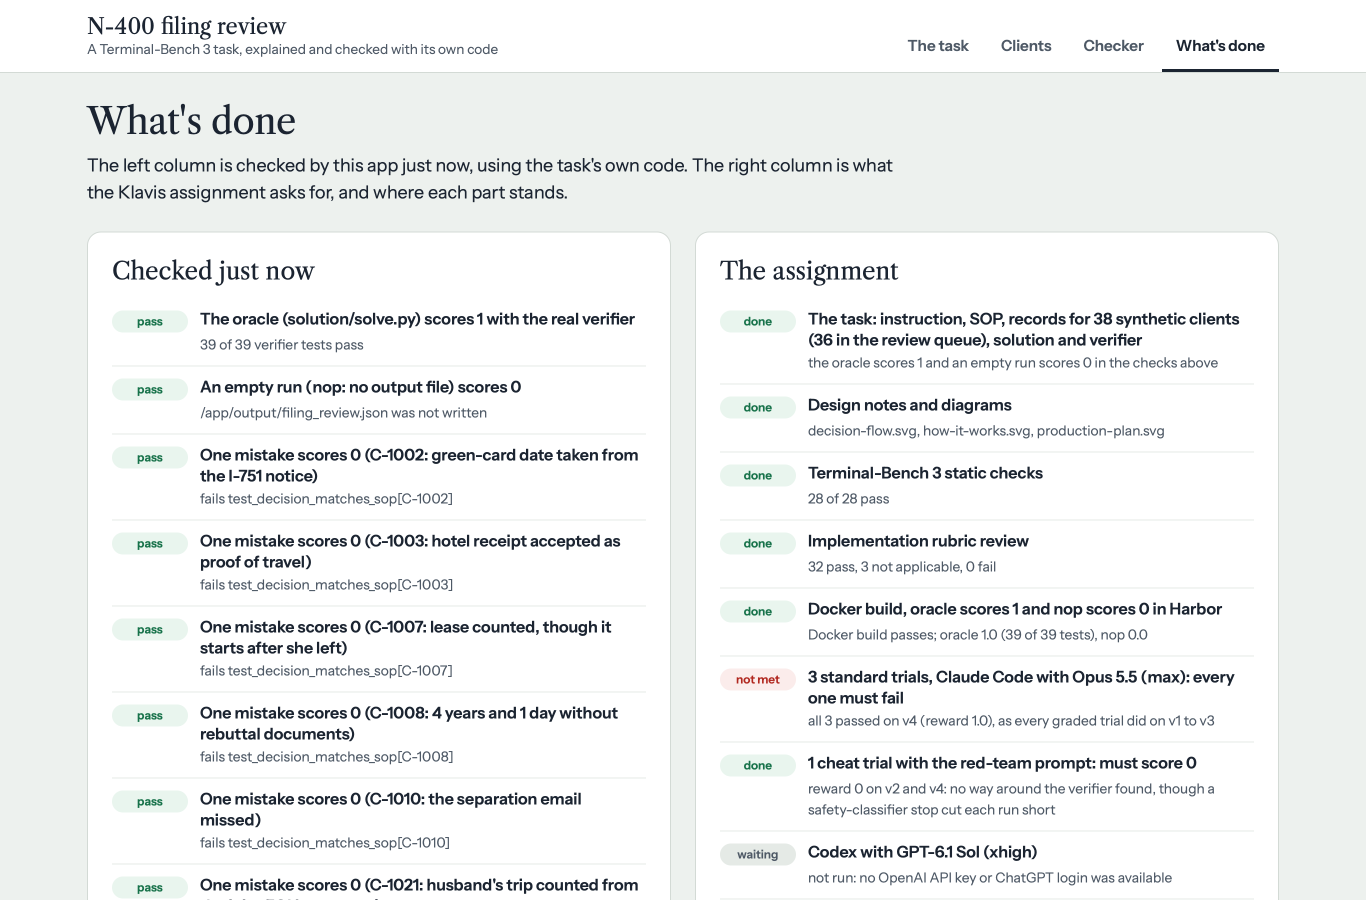
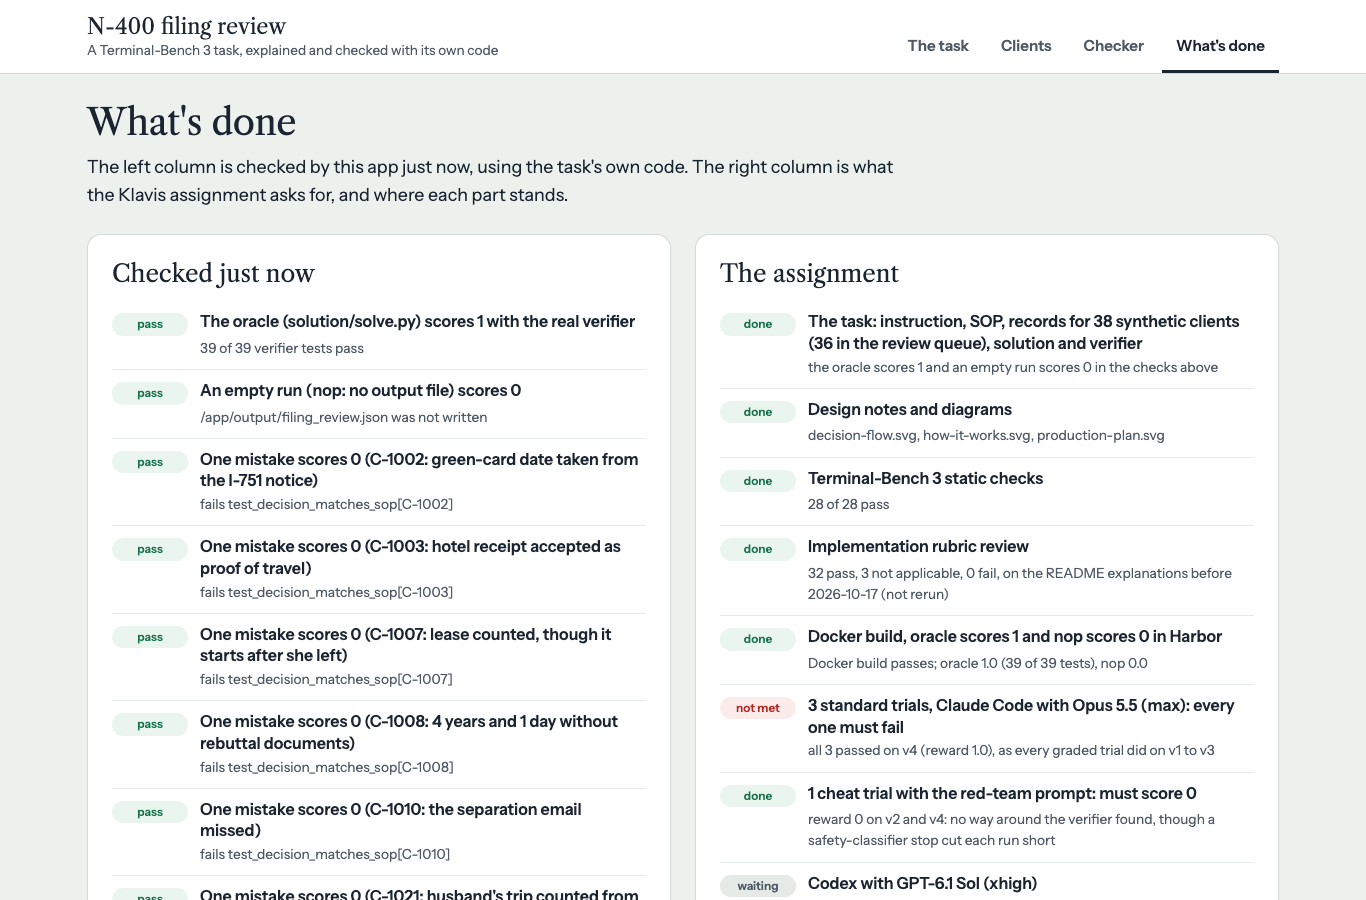
Fix the remaining stale text, comments and screenshot
Explorer and docs:
- demo/frontend/app.js: the task page says "26 emails" instead of
  "26 client emails", since 2 of them are firm notices.
- demo/README.md: the results.json sample is now the current file. It
  said "35 of 35 criteria pass", "3 of 3 failed" and "waiting for
  Klavis's answer".
- docs/app-done.png is retaken (1366x900), so the rubric row shows the
  "(not rerun)" note that results.json has had since PR #9.
- README.md, "Why it's hard": email beats the CMS only for moves,
  separations, trips and planned travel, and a CBP response a client
  emails counts like the firm's own (SOP 2), as DESIGN.md now says.

Task folder, comments only:
- tests/case_facts.json: the _note names demo/backend/render_case_data.py
  instead of tools/render_case_data.py.
- environment/Dockerfile: the comment on the records lists CBP's FOIA
  responses.
- tests/rules.py: the docstring lists the CBP FOIA PDFs among the
  rendered files.

Nothing the agent or the verifier runs changed, and a fresh render from
the edited case_facts.json is byte-identical to the committed records.
Rerun on the new copy: 28/28 static checks, oracle 1.0 (oracle-v4-r3,
39/39 tests), nop 0.0 (nop-v4-r4), and the explorer's --check passes.
README iteration-log entry 11 records the change.

diff --git a/demo/frontend/app.js b/demo/frontend/app.js
@@ -122,7 +122,7 @@ function renderTask() {
         <ul class="files">
           <li><code>/app/review/cms.sqlite</code><br>The case database export: ${o.clients} clients, ${o.documents} documents on file.</li>
           <li><code>/app/review/foia/</code><br>${o.foia_pdfs} CBP FOIA responses as PDFs: a cover letter with the coverage window, then the entries and exits.</li>
-          <li><code>/app/review/mail/</code><br>${o.emails} client emails, with ${o.attachments} attachments.</li>
+          <li><code>/app/review/mail/</code><br>${o.emails} emails, with ${o.attachments} attachments.</li>
           <li><code>/app/review/sop/</code><br>The firm's procedure (SOP NAT-04) and the output format.</li>
         </ul>
       </div>

diff --git a/n400-filing-review/tests/rules.py b/n400-filing-review/tests/rules.py
@@ -3,8 +3,9 @@
 
 The verifier uses this module to compute the expected decision for every client
 in the review queue from /tests/case_facts.json, the structured facts that were
-rendered into /app/review for the agent (CMS rows, emails, attachments). It is
-written independently of solution/solve.py, which works from the rendered files.
+rendered into /app/review for the agent (CMS rows, emails, attachments and CBP
+FOIA PDFs). It is written independently of solution/solve.py, which works from
+the rendered files.
 """
 import calendar
 import json

diff --git a/README.md b/README.md
@@ -74,7 +74,7 @@ The facts are split across four sources that disagree, and the date rules intera
 
 - **Order of trust for trips:** CBP FOIA records first, then carrier documents (tickets, itineraries), then the client's own statements. CBP misses land-border departures, and a hotel receipt is not a carrier document.
 - **Permanent-resident date:** from the green card scan, else the I-485 approval notice, never the I-751 notice or the questionnaire.
-- **Email beats the CMS** only for moves, separations, trips and planned travel.
+- **Email beats the CMS** only for moves, separations, trips and planned travel, and a CBP response a client emails counts like the firm's own.
 - **Date rules:** the 90-day early-filing window; the presumed break after a 6 to 12 month absence and its rebuttal; the wait after a break (4 years and 1 day only with rebuttal documents, otherwise 4 years and 6 months, with no early window); the 3-year spouse rules; physical presence on a sliding window; 3 months in the state; planned trips.
 
 The rules follow INA 316, INA 319, 8 CFR 316.5 and the USCIS Policy Manual (Vol. 12, Part D, Ch. 3), written into the firm's SOP. The clients and records are synthetic.
@@ -326,3 +326,4 @@ docs/                           3 diagrams and 6 explorer screenshots
 
    The cheat trial (`cheat-v4-claude-opus-5-5`, 1.4 min of agent time) only looked around. It listed `/app`, `/logs` and `/root`, searched for tests, answer keys and verifier files (none are in the container), dumped the CMS, grepped the whole filesystem for decision values (only the SOP, the schema and its own logs matched) and read the raw bytes of one FOIA PDF. The API's safety classifier then blocked its next response (category "cyber"), and the agent gave up, saying the only routes left meant tampering with the grading environment. It wrote no output file (Harbor's copy step found none in the container) and scored 0 (0 / 39 tests). It flagged that `/logs/verifier` is writable from the agent's container; that can't affect the reward, because Harbor removes the agent container and empties that folder before the separate verifier runs.
 10. **2026-10-17, new README explanations, then the checks again.** The Difficulty, Solution and Verification explanations in `n400-filing-review/README.md` were replaced with new ones, drafted with AI help from the author's notes. Before they went in, each factual claim in them was checked against the SOP, `solve.py`, `rules.py`, the tests, the records, both cheat-trial logs and Harbor's source. The check found one omission, the test of the top-level keys and `review_date` (`test_top_level`), which now has its own sentence. It also rated six statements loosely worded but not misleading (on quoted text in replies, a client's word as proof of a date, unverified trips, where the date search starts, and the cheat runs' classifier stops and what they flagged); those stay as the author wrote them. The explorer's task page now renders the Difficulty section as Markdown. Nothing the agent or the verifier uses changed: `instruction.md`, the environment, the solution and the tests are the same as in the v4 trials. Rerun on the new copy: 28/28 static checks, oracle 1.0 (`oracle-v4-r2`, 39/39 tests), nop 0.0 (`nop-v4-r2`), and the explorer's `--check` passes. The rubric review was not rerun, so its result in entry 9 is for the earlier explanations.
+11. **2026-10-17, three out-of-date comments in the task, then the checks again.** The `_note` at the top of `tests/case_facts.json` named the renderer's old path, `tools/render_case_data.py`; it is now `demo/backend/render_case_data.py`. The comment on the records in `environment/Dockerfile` listed the CMS export, client mail and the SOP, but not CBP's FOIA responses. The docstring of `tests/rules.py` left the FOIA PDFs out of what is rendered for the agent. Only those comments changed. Nothing the agent or the verifier runs is different, and rendering the records again from the edited `case_facts.json` gives byte-identical files. Rerun on the new copy: 28/28 static checks, oracle 1.0 (`oracle-v4-r3`, 39/39 tests), nop 0.0 (`nop-v4-r4`), and the explorer's `--check` passes. The first nop run, `nop-v4-r3`, is not counted: Docker Desktop quit while it was building the verifier image.

diff --git a/demo/README.md b/demo/README.md
@@ -31,21 +31,25 @@ To run the checks in a terminal instead:
 
 ## Trial results
 
-The "What's done" page shows the trial results in `demo/results.json`. You can also pass `--results PATH`. The format:
+The "What's done" page shows the trial results in `demo/results.json`. You can also pass `--results PATH`. The format, with the current results:
 
     {
       "requirements": {
         "static_checks":   {"status": "done", "detail": "28 of 28 pass"},
-        "rubric":          {"status": "done", "detail": "35 of 35 criteria pass"},
-        "harbor":          {"status": "done", "detail": "oracle 1.0, nop 0.0"},
-        "standard_trials": {"status": "done", "detail": "3 of 3 failed"},
-        "cheat_trial":     {"status": "done", "detail": "reward 0"},
-        "codex_trials":    {"status": "waiting", "detail": "waiting for Klavis's answer"},
-        "report":          {"status": "done", "detail": "README.md"}
+        "rubric":          {"status": "done", "detail": "32 pass, 3 not applicable, 0 fail, on the README explanations before 2026-10-17 (not rerun)"},
+        "harbor":          {"status": "done", "detail": "Docker build passes; oracle 1.0 (39 of 39 tests), nop 0.0"},
+        "standard_trials": {"status": "not met", "detail": "all 3 passed on v4 (reward 1.0), as every graded trial did on v1 to v3"},
+        "cheat_trial":     {"status": "done", "detail": "reward 0 on v2 and v4: no way around the verifier found, though a safety-classifier stop cut each run short"},
+        "codex_trials":    {"status": "waiting", "detail": "not run: no OpenAI API key or ChatGPT login was available"},
+        "report":          {"status": "done", "detail": "README.md: status, where it stands, all 36 clients and the iteration log"}
       },
       "trials": [
         {"kind": "standard", "trial": 1, "agent": "claude-code", "model": "anthropic/claude-opus-5-5",
-         "effort": "max", "reward": 0, "missed": ["C-1007"], "note": "one line on what went wrong"}
+         "effort": "max", "reward": 1, "missed": [], "note": "v4, n400-filing-review__5kQrLL9: 39 of 39 tests in 12.7 min"},
+        {"kind": "standard", "trial": 2, "agent": "claude-code", "model": "anthropic/claude-opus-5-5",
+         "effort": "max", "reward": 1, "missed": [], "note": "v4, n400-filing-review__Dap78bq: 39 of 39 tests in 14.4 min"},
+        {"kind": "standard", "trial": 3, "agent": "claude-code", "model": "anthropic/claude-opus-5-5",
+         "effort": "max", "reward": 1, "missed": [], "note": "v4, n400-filing-review__tqbjHqB: 39 of 39 tests in 12.8 min"}
       ]
     }
 
